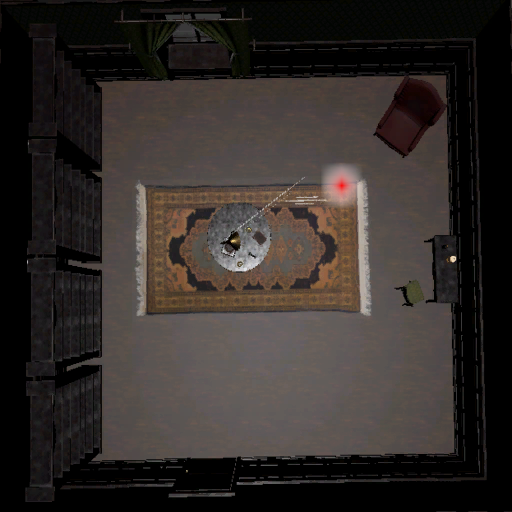
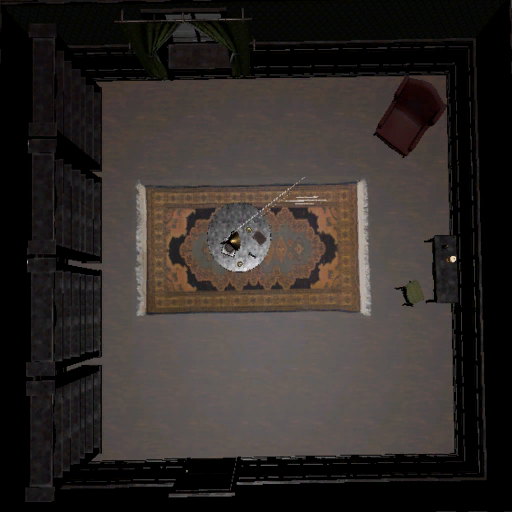
Eventos de Sesion y HMDInfo
He creado un componente HMDInfoCapture que cada cierto tiempo guarda info de lo que está viendo el jugador y sus movimientos

Changed region(s): [[0.625, 0.3125, 0.7188, 0.4062]]

diff --git a/UnityProject/Assets/Scripts/Telemetry/TelemetryManager.cs b/UnityProject/Assets/Scripts/Telemetry/TelemetryManager.cs
@@ -23,7 +23,7 @@ public class TelemetryManager : MonoBehaviour
 
     private Thread workerThread;
 
-    private bool running;
+    private volatile bool running;
 
     private string filePath;
 
@@ -61,14 +61,23 @@ public class TelemetryManager : MonoBehaviour
         Debug.Log($"Telemetry file: {filePath}");
     }
 
-    public void Track(string eventName, Vector3 position, string payload = "")
-    {
-        var telemetryEvent = new TelemetryEvent
-        {
-            eventName = eventName,
-            time = Time.time
-        };
+    public string SessionId => sessionId;
 
+    private string sessionId;
+
+    private float sessionStartTime;
+
+    private void Start()
+    {
+        sessionId = Guid.NewGuid().ToString();
+
+        sessionStartTime = Time.time;
+
+        Track(new SessionStartEvent(sessionId));
+    }
+
+    public void Track(TelemetryEvent telemetryEvent)
+    {
         queue.Enqueue(telemetryEvent);
     }
     private void WorkerLoop()
@@ -96,13 +105,15 @@ public class TelemetryManager : MonoBehaviour
             }
             catch (Exception e)
             {
-                Debug.LogError($"Telemetry Thread Error: {e}");
+                File.AppendAllText(
+                    filePath + ".errors.txt",
+                    e.ToString()
+                );
             }
         }
 
         FlushRemaining();
     }
-
 
     private void WriteBatch(List<TelemetryEvent> events)
     {
@@ -110,7 +121,9 @@ public class TelemetryManager : MonoBehaviour
 
         for (int i = 0; i < events.Count; i++)
         {
-            string json = JsonUtility.ToJson(events[i]);
+            string json = JsonUtility.ToJson(
+                (object)events[i]
+            );
 
             builder.AppendLine(json);
         }
@@ -146,6 +159,10 @@ public class TelemetryManager : MonoBehaviour
     {
         if (!running)
             return;
+
+        float duration = Time.time - sessionStartTime;
+
+        Track(new SessionEndEvent(sessionId, duration));
 
         running = false;
 

diff --git a/UnityProject/Assets/Scripts/Telemetry/Events/GameplayEvent.cs b/UnityProject/Assets/Scripts/Telemetry/Events/GameplayEvent.cs
@@ -1,0 +1,28 @@
+using System;
+using UnityEngine;
+
+[Serializable]
+public class GameplayEvent : TelemetryEvent
+{
+    public Vector3 position;
+
+    public string payload;
+
+    public GameplayEvent(
+        string sessionId,
+        string eventName,
+        Vector3 worldPosition,
+        string data = ""
+    )
+    {
+        eventType = eventName;
+
+        session_id = sessionId;
+
+        timestamp = DateTimeOffset.UtcNow.ToUnixTimeMilliseconds();
+
+        position = worldPosition;
+
+        payload = data;
+    }
+}

diff --git a/UnityProject/Assets/Scripts/Telemetry/Events/SessionEndEvent.cs b/UnityProject/Assets/Scripts/Telemetry/Events/SessionEndEvent.cs
@@ -1,0 +1,21 @@
+using System;
+
+[Serializable]
+public class SessionEndEvent : TelemetryEvent
+{
+    public float sessionDuration;
+
+    public SessionEndEvent(
+        string sessionId,
+        float duration
+    )
+    {
+        eventType = "Session_End";
+
+        session_id = sessionId;
+
+        sessionDuration = duration;
+
+        timestamp = DateTimeOffset.UtcNow.ToUnixTimeMilliseconds();
+    }
+}

diff --git a/UnityProject/Assets/Scripts/Telemetry/TelemetryEvent.cs b/UnityProject/Assets/Scripts/Telemetry/TelemetryEvent.cs
@@ -1,10 +1,12 @@
 using System;
-using UnityEngine;
 
 [Serializable]
-public struct TelemetryEvent
+public abstract class TelemetryEvent
 {
-    public string eventName;
-    public float time;
+    public string eventType;
 
+    public string session_id;
+
+    // timestamp en milisegundos
+    public long timestamp;
 }

diff --git a/UnityProject/Assets/Scripts/Telemetry/Events/SessionStartEvent.cs b/UnityProject/Assets/Scripts/Telemetry/Events/SessionStartEvent.cs
@@ -1,0 +1,14 @@
+using System;
+
+[Serializable]
+public class SessionStartEvent : TelemetryEvent
+{
+    public SessionStartEvent(string sessionId)
+    {
+        eventType = "Session_Start";
+
+        session_id = sessionId;
+
+        timestamp = DateTimeOffset.UtcNow.ToUnixTimeMilliseconds();
+    }
+}

diff --git a/UnityProject/Assets/Scripts/Telemetry/Events/HMDInfoEvent.cs b/UnityProject/Assets/Scripts/Telemetry/Events/HMDInfoEvent.cs
@@ -1,0 +1,14 @@
+using System;
+using UnityEngine;
+
+[Serializable]
+public class HMDInfoEvent : TelemetryEvent
+{
+    public Vector3 angular_velocity;
+
+    public Vector3 position_target;
+
+    public Vector3 hmd_position;
+
+    public Quaternion hmd_rotation;
+}
